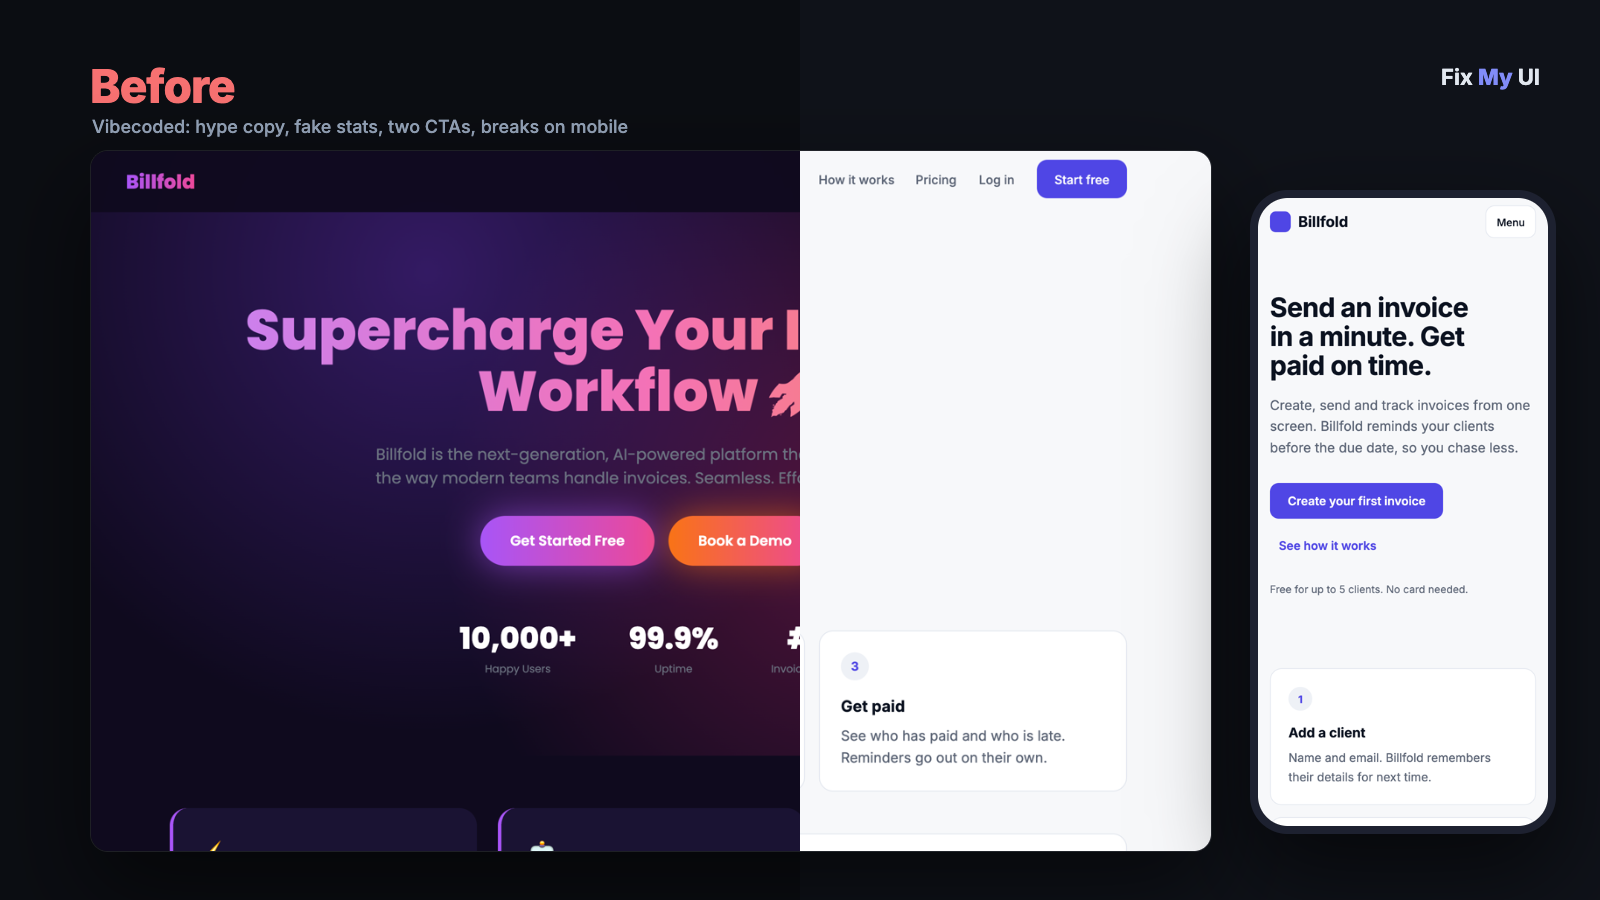
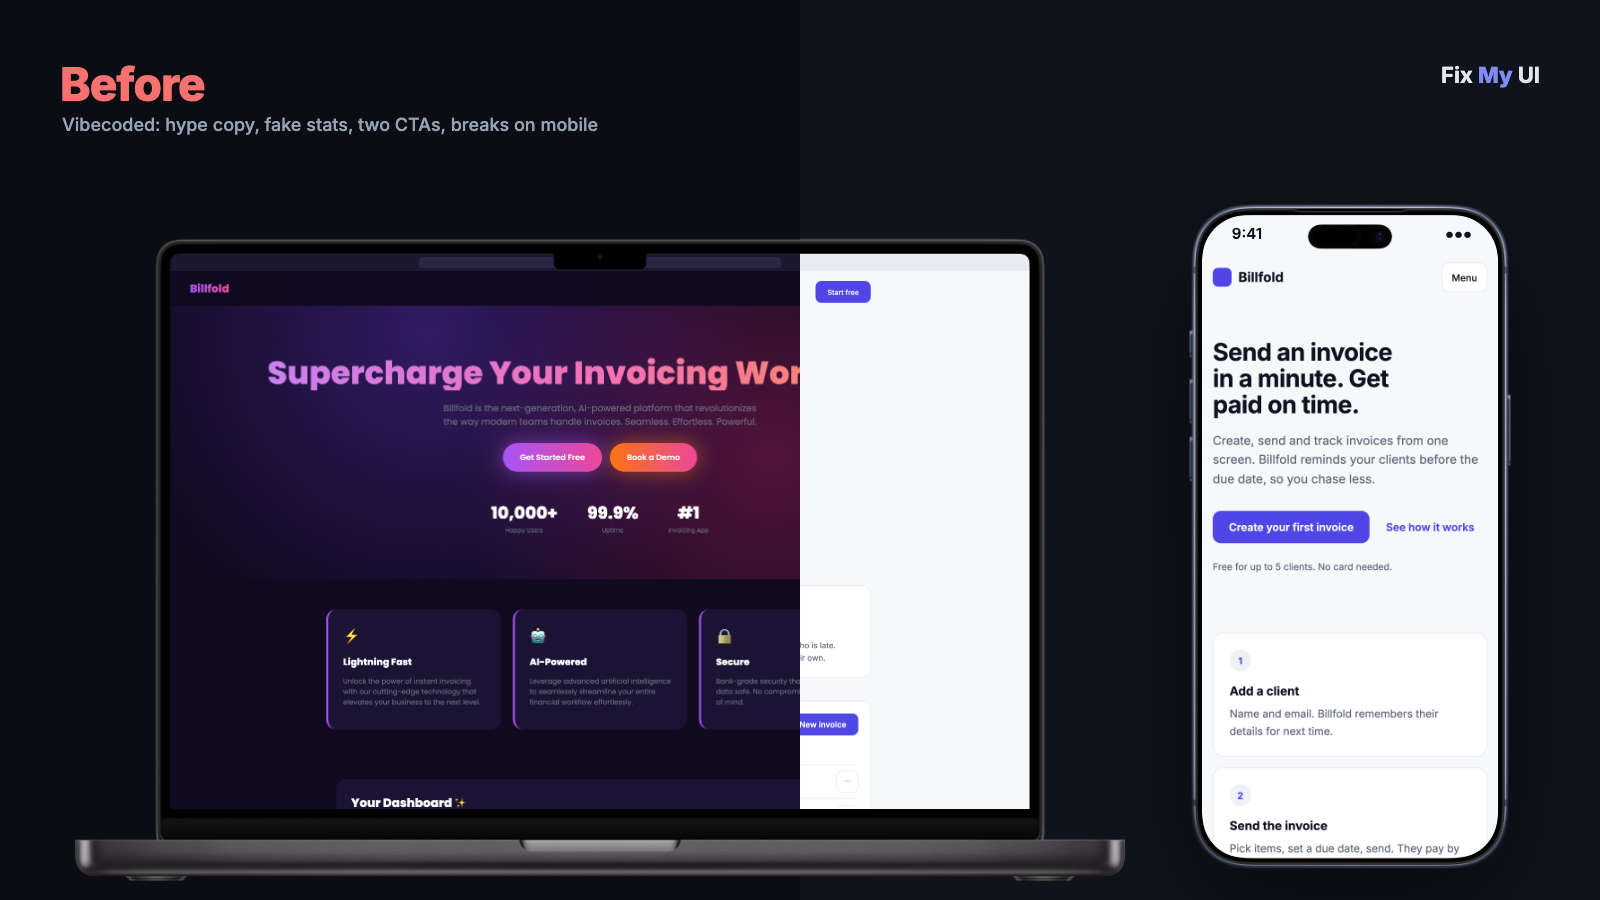
Device frames for the before/after, roomier header in the demo

diff --git a/examples/billfold/after/index.html b/examples/billfold/after/index.html
@@ -12,17 +12,17 @@
   body{margin:0}
   .wrap{max-width:1120px;margin:0 auto;padding:0 var(--space-4)}
   header{position:sticky;top:0;z-index:5;background:transparent;transition:background var(--dur-base)}
-  header .wrap{display:flex;align-items:center;justify-content:space-between;height:64px}
+  header .wrap{display:flex;align-items:center;justify-content:space-between;height:84px}
   .logo{font:700 20px var(--font-heading);color:var(--fg);text-decoration:none;display:flex;align-items:center;gap:10px;min-height:44px}
   .logo i{width:28px;height:28px;border-radius:8px;background:var(--primary);display:inline-block}
-  nav.links{display:flex;gap:var(--space-6);align-items:center}
+  nav.links{display:flex;gap:var(--space-8);align-items:center}
   nav.links a{color:var(--fg-muted);text-decoration:none;font-size:var(--text-sm);font-weight:500;display:inline-flex;align-items:center;justify-content:center;min-height:44px;min-width:44px}
-  nav.links a.btn{color:var(--primary-fg);padding:0 var(--space-5)}
+  nav.links a.btn{color:var(--primary-fg);padding:0 var(--space-6);margin-left:var(--space-2)}
   .menu{display:none;min-width:44px;min-height:44px;border:1px solid var(--border);border-radius:var(--radius-md);background:var(--surface);color:var(--fg);font:500 var(--text-sm) var(--font-body);padding:0 14px}
   .btn{display:inline-flex;align-items:center;justify-content:center;min-height:48px;padding:0 var(--space-6);border-radius:var(--radius-md);font:600 var(--text-base) var(--font-body);text-decoration:none;border:0;cursor:pointer}
   .btn-primary{background:var(--primary);color:var(--primary-fg)}
   .btn-link{color:var(--primary);background:none;padding:0 var(--space-3)}
-  .hero{padding:var(--space-16) 0 var(--space-12)}
+  .hero{padding:112px 0 var(--space-16)}
   .hero h1{font:700 clamp(36px,6vw,56px)/1.08 var(--font-heading);letter-spacing:-.02em;margin:0;max-width:760px;text-wrap:balance}
   .hero p{font-size:var(--text-lg);color:var(--fg-muted);max-width:600px;margin:var(--space-5) 0 var(--space-8);line-height:1.6}
   .cta{display:flex;flex-wrap:wrap;gap:var(--space-3);align-items:center}
@@ -47,6 +47,7 @@
   .empty h3{margin:0 0 var(--space-2)}.empty p{color:var(--fg-muted);margin:0 0 var(--space-5)}
   footer{padding:var(--space-10) 0;color:var(--fg-muted);font-size:var(--text-sm)}
   @media (max-width:720px){
+    header .wrap{height:72px}.hero{padding:56px 0 var(--space-10)}
     nav.links a{display:none}.menu{display:inline-flex;align-items:center}
     .steps{grid-template-columns:1fr}
     .row{grid-template-columns:minmax(0,1fr) auto;row-gap:4px}
